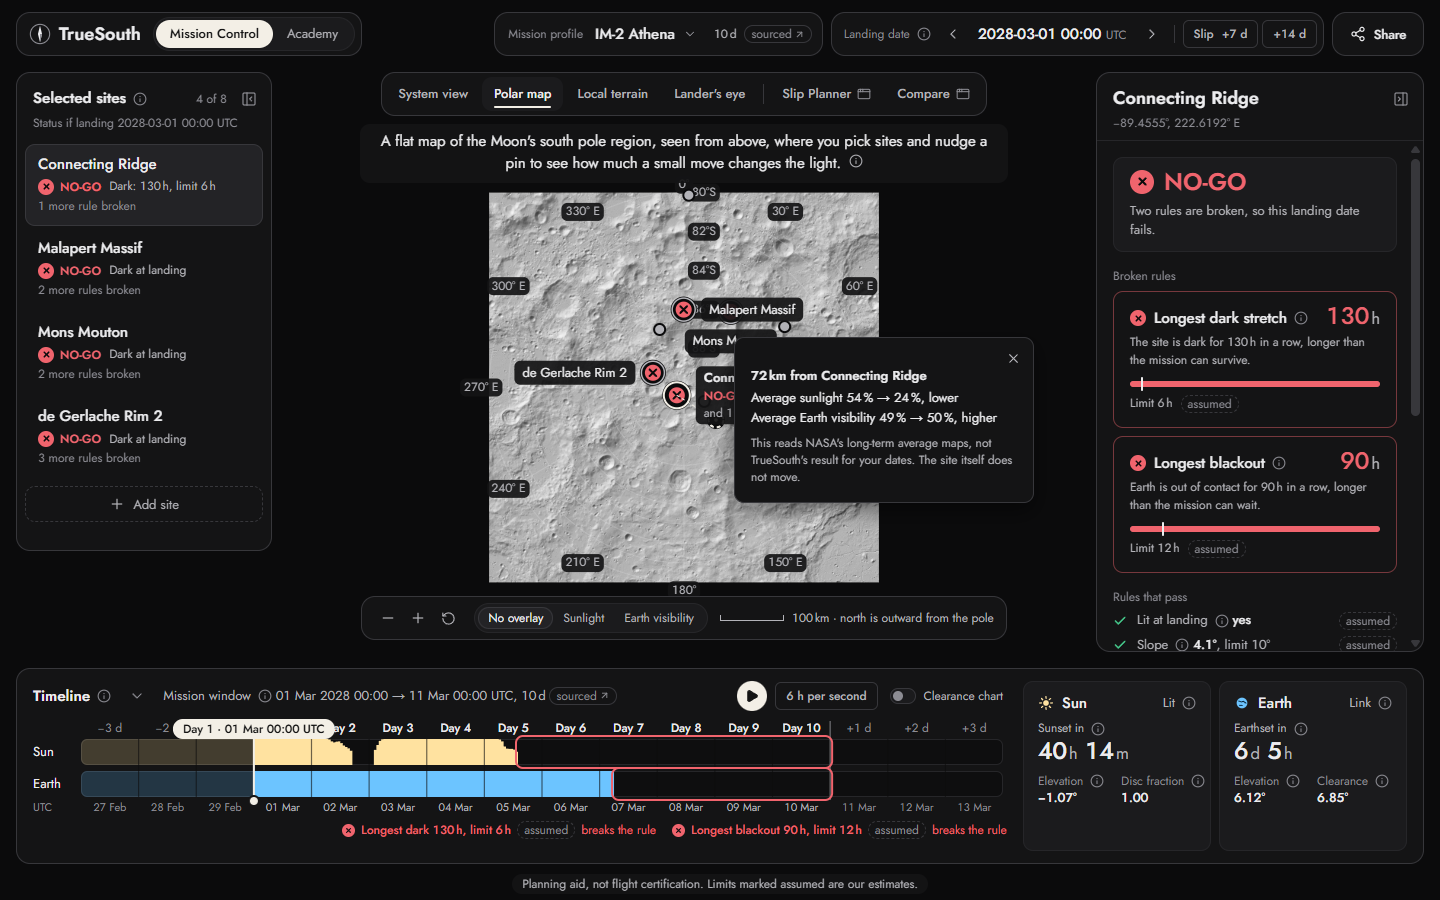
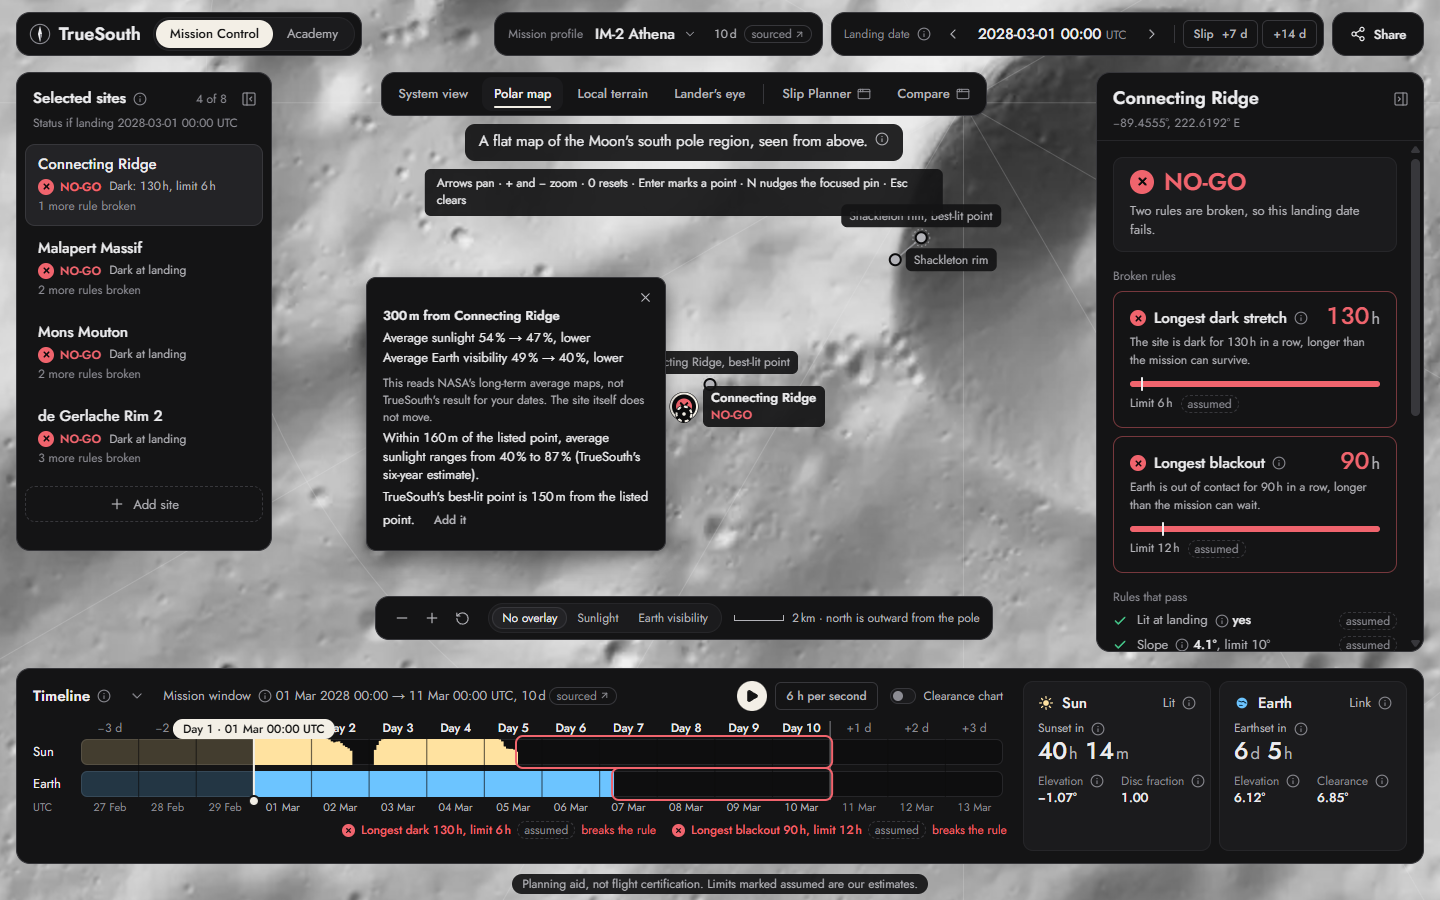
T7: props for other views (sites, feature names, overlay, projector); a nudge brings its site into view

diff --git a/web/src/features/polar-map/map.tsx b/web/src/features/polar-map/map.tsx
@@ -85,6 +85,36 @@ export type MapCoreProps = {
    * the nudge readout offer a button that calls it; without it there is no button.
    */
   onRequestSite?: (latDeg: number, lonDeg: number) => void;
+  /**
+   * Optional: the sites to place, in place of the whole catalog (for example only the selected
+   * sites). Selection and focus still come from the scenario.
+   */
+  sites?: readonly Site[];
+  /** Name craters and mountains once zoomed in enough. Default true. */
+  showFeatureNames?: boolean;
+  /**
+   * Optional: the overlay, set from outside. When given, the map shows that layer and hides
+   * its own overlay choice; NASA's averages stay context, never a result.
+   */
+  overlay?: OverlayId | "none";
+  /** The overlay's opacity when `overlay` is set from outside, 0 to 1. Default 0.65. */
+  overlayOpacity?: number;
+  /**
+   * Optional: receives a projector with the same shape as the 3D scene's (`SceneProjector`
+   * on the Slip Planner's branch): where a place is on screen now, and a callback after every
+   * drawn frame, so things drawn over the map can follow it without React. Called with null
+   * when the map unmounts.
+   */
+  onProjector?: (projector: MapProjector | null) => void;
+};
+
+/** Where a place is on the map's screen now, in CSS pixels from the map box's top left. */
+export type MapScreenPoint = { x: number; y: number; visible: boolean };
+
+/** The map's projector: the same shape as the 3D scene's `SceneProjector`. */
+export type MapProjector = {
+  project: (latDeg: number, lonDeg: number) => MapScreenPoint;
+  subscribe: (onFrame: () => void) => () => void;
 };
 
 type Point = { latDeg: number; lonDeg: number };
@@ -99,6 +129,8 @@ const KEY_PAN_PX = 60;
 const KEY_MOVE_PX = 8;
 const KEY_NUDGE_M = 100;
 const KEY_NUDGE_BIG_M = 1000;
+/** Starting a nudge zooms in to at least 40 m a pixel, so a 100 m step shows. */
+const NUDGE_MIN_K = 1000 / 40;
 const ZOOM_STEP = 1.6;
 
 /** Reports a selected site's status for the landing date, from the evaluation hooks. */
@@ -156,7 +188,8 @@ export const MapCore = memo(function MapCore(props: MapCoreProps) {
   const sitesResult = useSites();
   const featuresResult = useFeatures();
   const metaResult = useMapsMeta();
-  const sites = sitesResult.status === "ready" ? sitesResult.data : null;
+  const catalog = sitesResult.status === "ready" ? sitesResult.data : null;
+  const sites = props.sites ?? catalog;
   const features = featuresResult.status === "ready" ? featuresResult.data : null;
   const halfWidthM = metaResult.status === "ready" ? metaResult.data.half_width_m : DEFAULT_HALF_WIDTH_M;
   const lookupSize = (layer: OverlayId) => {
@@ -194,10 +227,14 @@ export const MapCore = memo(function MapCore(props: MapCoreProps) {
   const [wantSharp, setWantSharp] = useState(false);
   const relief8k = useMapImage(wantSharp ? "hillshade_8k.webp" : null);
   const firstPaint = relief4k.status === "ready" || relief4k.status === "error";
-  const [overlay, setOverlay] = useState<OverlayId | "none">("none");
-  const [opacity, setOpacity] = useState(0.65);
-  const sunImage = useMapImage(firstPaint && !lesson ? "sunlight_4k.webp" : null);
-  const earthImage = useMapImage(firstPaint && !lesson ? "earthvis_4k.webp" : null);
+  const [ownOverlay, setOverlay] = useState<OverlayId | "none">("none");
+  const [ownOpacity, setOpacity] = useState(0.65);
+  const outsideOverlay = props.overlay !== undefined;
+  const overlay = props.overlay ?? ownOverlay;
+  const opacity = outsideOverlay ? (props.overlayOpacity ?? 0.65) : ownOpacity;
+  const wantOverlays = firstPaint && (!lesson || outsideOverlay);
+  const sunImage = useMapImage(wantOverlays ? "sunlight_4k.webp" : null);
+  const earthImage = useMapImage(wantOverlays ? "earthvis_4k.webp" : null);
   const [grids, setGrids] = useState<Partial<Record<OverlayId, Uint8Array>>>({});
   const gridFor = useCallback(
     (layer: OverlayId): LookupGrid | null => {
@@ -334,17 +371,30 @@ export const MapCore = memo(function MapCore(props: MapCoreProps) {
     if (!userMoved.current) apply(fit);
   }, [fit, box.width, box.height]);
 
+  // A point that is outside the free space slides into its middle, zooming in to `minK` if
+  // the map is further out than that.
+  const bringIntoView = useCallback(
+    (latDeg: number, lonDeg: number, minK = 0) => {
+      const v = viewRef.current;
+      const at = latLonToScreen(latDeg, lonDeg, v);
+      const inside = at.x > frame.x + 24 && at.x < frame.x + frame.width - 24 && at.y > frame.y + 24 && at.y < frame.y + frame.height - 24;
+      if (inside && v.k >= minK) return;
+      const k = Math.max(v.k, minK);
+      const centre = { x: frame.x + frame.width / 2, y: frame.y + frame.height / 2 };
+      // Put the point at the centre, at scale k: the pole moves with the zoom about the point.
+      const f = k / v.k;
+      animateTo({ k, x: centre.x - (at.x - v.x) * f, y: centre.y - (at.y - v.y) * f });
+    },
+    [frame, animateTo],
+  );
+
   // A newly focused site that is off screen slides into view.
   const lastFocused = useRef(focusedId);
   useEffect(() => {
     if (lastFocused.current === focusedId) return;
     lastFocused.current = focusedId;
     if (!focusedSite || !onMap(focusedSite, halfWidthM)) return;
-    const at = latLonToScreen(focusedSite.lat_deg, focusedSite.lon_deg, viewRef.current);
-    const inside = at.x > frame.x + 24 && at.x < frame.x + frame.width - 24 && at.y > frame.y + 24 && at.y < frame.y + frame.height - 24;
-    if (inside) return;
-    const v = viewRef.current;
-    animateTo({ k: v.k, x: v.x + (frame.x + frame.width / 2 - at.x), y: v.y + (frame.y + frame.height / 2 - at.y) });
+    bringIntoView(focusedSite.lat_deg, focusedSite.lon_deg);
   }, [focusedId]);
 
   useEffect(() => {
@@ -401,11 +451,33 @@ export const MapCore = memo(function MapCore(props: MapCoreProps) {
           : null,
       scratch: scratchRef.current,
       pins,
-      features: features ?? [],
+      features: props.showFeatureNames === false ? [] : (features ?? []),
       compact: lesson,
       marker,
     });
-  }, [view, box.width, box.height, dpr, pins, features, marker, relief4k.status, relief8k.status, overlay, overlayImage?.status, opacity, fontsReady, halfWidthM, lesson]);
+    for (const listener of frameListeners.current) listener();
+  }, [view, box.width, box.height, dpr, pins, features, props.showFeatureNames, marker, relief4k.status, relief8k.status, overlay, overlayImage?.status, opacity, fontsReady, halfWidthM, lesson]);
+
+  // The projector for things drawn over the map (`onProjector`).
+  const frameListeners = useRef(new Set<() => void>());
+  const { onProjector } = props;
+  useEffect(() => {
+    if (!onProjector) return;
+    const projector: MapProjector = {
+      project: (latDeg, lonDeg) => {
+        const at = latLonToScreen(latDeg, lonDeg, viewRef.current);
+        const node = boxRef.current;
+        const visible = Boolean(node) && at.x >= 0 && at.y >= 0 && at.x <= (node?.clientWidth ?? 0) && at.y <= (node?.clientHeight ?? 0);
+        return { x: at.x, y: at.y, visible };
+      },
+      subscribe: (onFrame) => {
+        frameListeners.current.add(onFrame);
+        return () => frameListeners.current.delete(onFrame);
+      },
+    };
+    onProjector(projector);
+    return () => onProjector(null);
+  }, [onProjector]);
 
   // ── Input ──
   const activeRef = useRef(active);
@@ -428,8 +500,11 @@ export const MapCore = memo(function MapCore(props: MapCoreProps) {
       const site = siteById(siteId);
       if (!site) return;
       setReadout({ kind: "nudge", siteId, at: { latDeg: site.lat_deg, lonDeg: site.lon_deg }, dragging: false });
+      // Close enough that a 100 m step shows (40 m a pixel).
+      bringIntoView(site.lat_deg, site.lon_deg, NUDGE_MIN_K);
+      userMoved.current = true;
     },
-    [siteById],
+    [siteById, bringIntoView],
   );
 
   const onPointerDown = (event: ReactPointerEvent<HTMLCanvasElement>) => {
@@ -666,7 +741,7 @@ export const MapCore = memo(function MapCore(props: MapCoreProps) {
             <IconButton label="Zoom in" hint="(+)" icon={<Plus size={16} strokeWidth={1.8} />} onClick={() => zoomBy(ZOOM_STEP)} />
             <IconButton label="Reset the map" hint="(0)" icon={<RotateCcw size={15} strokeWidth={1.8} />} onClick={reset} />
           </div>
-          {lesson ? null : (
+          {lesson || outsideOverlay ? null : (
             <div className="pm-overlay">
               {narrow ? (
                 <label className="pm-select">
@@ -834,7 +909,10 @@ function ReadoutCard(props: ReadoutCardProps) {
     const h = node.offsetHeight;
     const gap = 18;
     const roomRight = frame.x + frame.width - (anchor.x + gap);
-    let left = roomRight >= w ? anchor.x + gap : anchor.x - gap - w;
+    const roomLeft = anchor.x - gap - frame.x;
+    // A nudge card opens to the left: a best-lit variant's callout sits up and to the right.
+    const preferLeft = readout.kind === "nudge" && roomLeft >= w;
+    let left = !preferLeft && roomRight >= w ? anchor.x + gap : anchor.x - gap - w;
     left = Math.max(frame.x + 8, Math.min(left, frame.x + frame.width - w - 8));
     let top = anchor.y - h / 2;
     top = Math.max(frame.y + 8, Math.min(top, frame.y + frame.height - h - 8));

diff --git a/web/src/features/polar-map/index.tsx b/web/src/features/polar-map/index.tsx
@@ -1,16 +1,17 @@
 import { useCallback, useSyncExternalStore } from "react";
 import type { PanelProps } from "../../app/panel";
-import { MapCore } from "./map";
+import { MapCore, type MapCoreProps } from "./map";
 
 export { POLAR_MAP_LAYER, polarMapLayer, type PolarMapLayerOptions } from "./layer";
+export type { MapProjector, MapScreenPoint } from "./map";
+export type { OverlayId } from "./readout";
 
-export type PolarMapProps = PanelProps & {
-  /**
-   * Optional: compute a custom site at a point. When given, the "New site here?" readout shows
-   * "Compute this site" (and the nudge readout "Compute this point"); without it, no button.
-   */
-  onRequestSite?: (latDeg: number, lonDeg: number) => void;
-};
+/**
+ * The flat map's props: the panel props, plus the optional ones another view can use (the
+ * Slip Planner's flat mode, the Academy's drop-pin step). See `MapCoreProps` for each.
+ */
+export type PolarMapProps = PanelProps &
+  Pick<MapCoreProps, "onRequestSite" | "sites" | "showFeatureNames" | "overlay" | "overlayOpacity" | "onProjector">;
 
 const REDUCE_MOTION = "(prefers-reduced-motion: reduce)";
 
@@ -32,7 +33,7 @@ function useReduceMotion(): boolean {
  * control set (zoom and reset, and the scale bar). Focusing and adding sites go through
  * `onScenarioChange`.
  */
-export default function PolarMap({ scenario, onScenarioChange, mode, onRequestSite }: PolarMapProps) {
+export default function PolarMap({ scenario, onScenarioChange, mode, onRequestSite, ...extra }: PolarMapProps) {
   const reduceMotion = useReduceMotion();
   const focus = useCallback(
     (siteId: string) => {
@@ -59,6 +60,11 @@ export default function PolarMap({ scenario, onScenarioChange, mode, onRequestSi
         onFocusSite={onScenarioChange ? focus : undefined}
         onAddSite={onScenarioChange ? add : undefined}
         onRequestSite={onRequestSite}
+        sites={extra.sites}
+        showFeatureNames={extra.showFeatureNames}
+        overlay={extra.overlay}
+        overlayOpacity={extra.overlayOpacity}
+        onProjector={extra.onProjector}
       />
     </div>
   );

diff --git a/docs/features/polar-map.md b/docs/features/polar-map.md
@@ -65,9 +65,12 @@ map is flat, and the globe lives in the [System view](system-view.md).
   16 px status lamp with its glyph, ringed and named; a catalog site that is not selected is
   a quiet grey dot (its status needs its series, which loads when it is added), named once
   zoomed in. Pins closer than 18 px fold into one, which shows "+N" (the focused one says
-  "and N more sites here"); clicking a fold zooms in. A best-lit variant has a dotted ring,
-  a hairline to its parent and, when the two would overlap, a callout beside the parent with
-  a dot at its true point, so it is never under its parent.
+  "and N more sites here"); clicking a fold zooms in. A best-lit variant (71 to 149 m from its
+  parent, so under two relief pixels away) has a dotted ring and a hairline to its parent.
+  When the parent's own pin is drawn and the two would overlap, the variant stands in a
+  callout beside it, with a dot at its true point; both stay clickable. When the parent is
+  folded into another pin, a quiet variant folds there with it, so no callout stands beside
+  an unrelated pin.
 - **Named features:** crater and mountain labels, shown when zoomed in enough.
 - **Artemis candidate regions:** outlines, off by default. As built: not drawn.
   `artemis_regions.json` holds names and source links only (every centre and size is
@@ -85,7 +88,8 @@ map is flat, and the globe lives in the [System view](system-view.md).
   space; reset (or `0`) returns to the fit.
 - **Keyboard (as built).** The map is one Tab stop. Arrows pan (Shift for more), `+` and `−`
   zoom, `0` resets, Enter marks a "New site here?" point at the centre and the arrows then
-  move it, `N` starts a nudge of the focused pin and the arrows move it 100 m a press (1 km
+  move it, `N` starts a nudge of the focused pin (sliding it into the free space and zooming
+  in to at least 40 m a pixel, so a step shows) and the arrows move it 100 m a press (1 km
   with Shift), Escape clears. A key list shows on a plate while the map has keyboard focus.
   Pins are reached from the sites rail; focusing a site that is off screen slides it into
   view.
@@ -163,6 +167,12 @@ Selecting one works as usual.
   controls fit beside the zoom buttons on a phone.
 - **In a lesson box** (`mode: "lesson"`, as built): the same map with zoom, reset and the
   scale bar; no overlays and no off-map list.
+- **Used by another view** (as built, for the Slip Planner's flat mode and the Academy): the
+  `PolarMap` default export also takes `sites` (the pins to place, in place of the whole
+  catalog), `showFeatureNames` (default true), `overlay` and `overlayOpacity` (set the
+  layer from outside, which hides the map's own overlay choice) and `onProjector` (a
+  projector with the same shape as the 3D scene's `SceneProjector`: `project(lat, lon)` and
+  `subscribe(onFrame)`).
   Proposed. Reason: the overlays arrive after the first paint, so the choice must not be
   live before they do.
 - **No WebGL or the still picture:** the flat map is a 2D canvas, so it still opens, with a

diff --git a/DEVLOG.md b/DEVLOG.md
@@ -860,8 +860,14 @@ Every one of the 65 proposed keys has a definition, source arrays, availability,
     moves by more than about 0.6 % of the map's width at 80°S (a pinhole projection of the
     cap, tested against `polarPose` and `polarScale`). Matching the pole exactly left pins
     near 80°S up to 1.1 % off.
-  - `sites.json` on main has no best-lit variants and no `nearby_sun` yet; the map draws
-    and words them when they arrive (tested with a made-up variant).
+  - Best-lit variants (#77, merged in): tested against the five real ones. A variant whose
+    parent is drawn stands in a callout beside it; one whose parent is folded into another
+    pin folds with it. Seen at Connecting Ridge and Shackleton rim at 40 m a pixel. The
+    nudge readout there reads "Average sunlight 54 % → 43 %, lower" 300 m from Connecting
+    Ridge, with its 40 to 87 % nearby range and the best-lit point 150 m away.
+  - For the Slip Planner (#87) and the Academy, `PolarMap` takes `sites`,
+    `showFeatureNames`, `overlay`, `overlayOpacity` and `onProjector` (the same shape as
+    `SceneProjector`). Nothing is built for the Slip Planner here.
   - `artemis_regions.json` has no centres or sizes, so no outlines are drawn.
   - Catalog sites that are not selected are grey dots without a status: a status needs the
     site's 0.8 MB series, which loads when the site is added.
